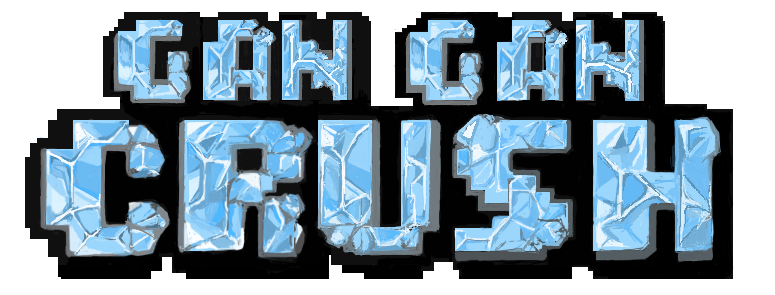
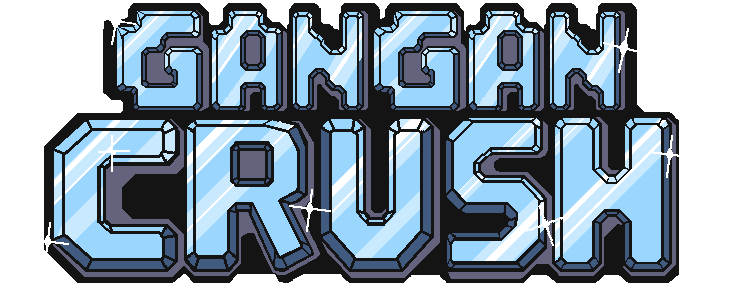
タイトルロゴ入れ替え

diff --git a/TGS2024/GameMainScene.cpp b/TGS2024/GameMainScene.cpp
@@ -1327,6 +1327,22 @@ void GameMainScene::Draw() const
 	}
 	else
 	{
+
+		if (stage_num == StageNum::stage2)
+		{
+
+			//ステージブロック描画
+			for (int j = 0; j < block_count; j++)
+			{
+				if (stage_block[j] != nullptr && stage_block[j]->GetBlockNum() == 3)
+				{
+					//ゴールのドア描画
+					DrawGraph((int)stage_block[j]->GetLocation().x - 440, (int)stage_block[j]->GetLocation().y - 480, goal_door_img, TRUE);
+				}
+			}
+		}
+
+
 			//プレイヤー描画
 		if (player != nullptr)
 		{
@@ -1445,14 +1461,14 @@ void GameMainScene::Draw() const
 		{
 
 			//ステージブロック描画
-			for (int j = 0; j < block_count; j++)
-			{
-				if (stage_block[j] != nullptr && stage_block[j]->GetBlockNum() == 3)
-				{
-					//ゴールのドア描画
-					DrawGraph((int)stage_block[j]->GetLocation().x - 448, (int)stage_block[j]->GetLocation().y - 480, goal_door_img, TRUE);
-				}
-			}
+			//for (int j = 0; j < block_count; j++)
+			//{
+			//	if (stage_block[j] != nullptr && stage_block[j]->GetBlockNum() == 3)
+			//	{
+			//		//ゴールのドア描画
+			//		DrawGraph((int)stage_block[j]->GetLocation().x - 448, (int)stage_block[j]->GetLocation().y - 480, goal_door_img, TRUE);
+			//	}
+			//}
 
 			for (int i = 0; i < CAGE_DOOR_MAXNUM; i++)
 			{
